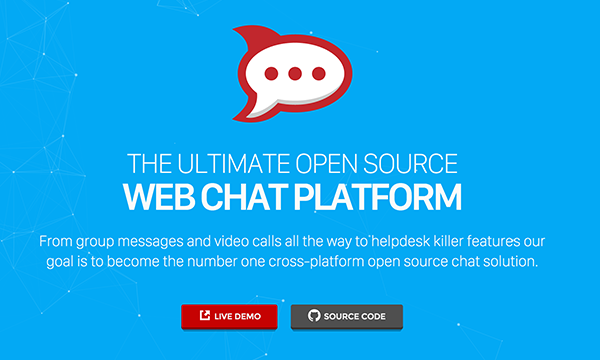
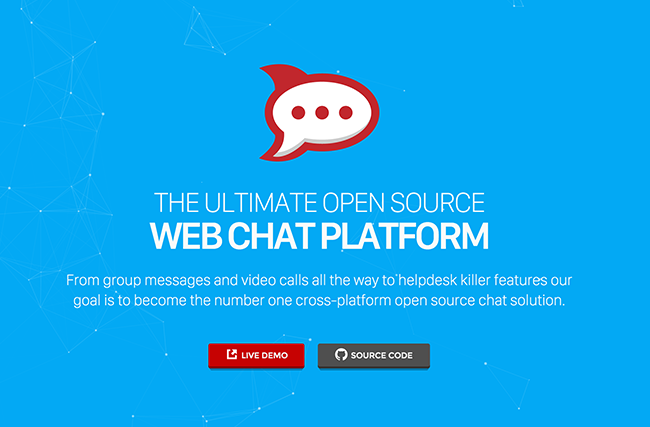
new share image size

diff --git a/client/views/main.html b/client/views/main.html
@@ -11,9 +11,9 @@
 	<meta property="og:description" content="From group messages and video calls all the way to helpdesk killer features our goal is to become the number one cross-platform open source chat solution." />
 	<meta property="fb:app_id" content="835103589938459" />
 	<meta property="og:type" content="website" />
-	<meta property="og:image" content="https://rocket.chat/images/share.png?v=3" />
-	<meta property="og:image:width" content="600" />
-	<meta property="og:image:height" content="360" />
+	<meta property="og:image" content="https://rocket.chat/images/share.png?v=4" />
+	<meta property="og:image:width" content="650" />
+	<meta property="og:image:height" content="427" />
 
 	<meta name="fragment" content="!" />
 	<meta name="distribution" content="global" />
